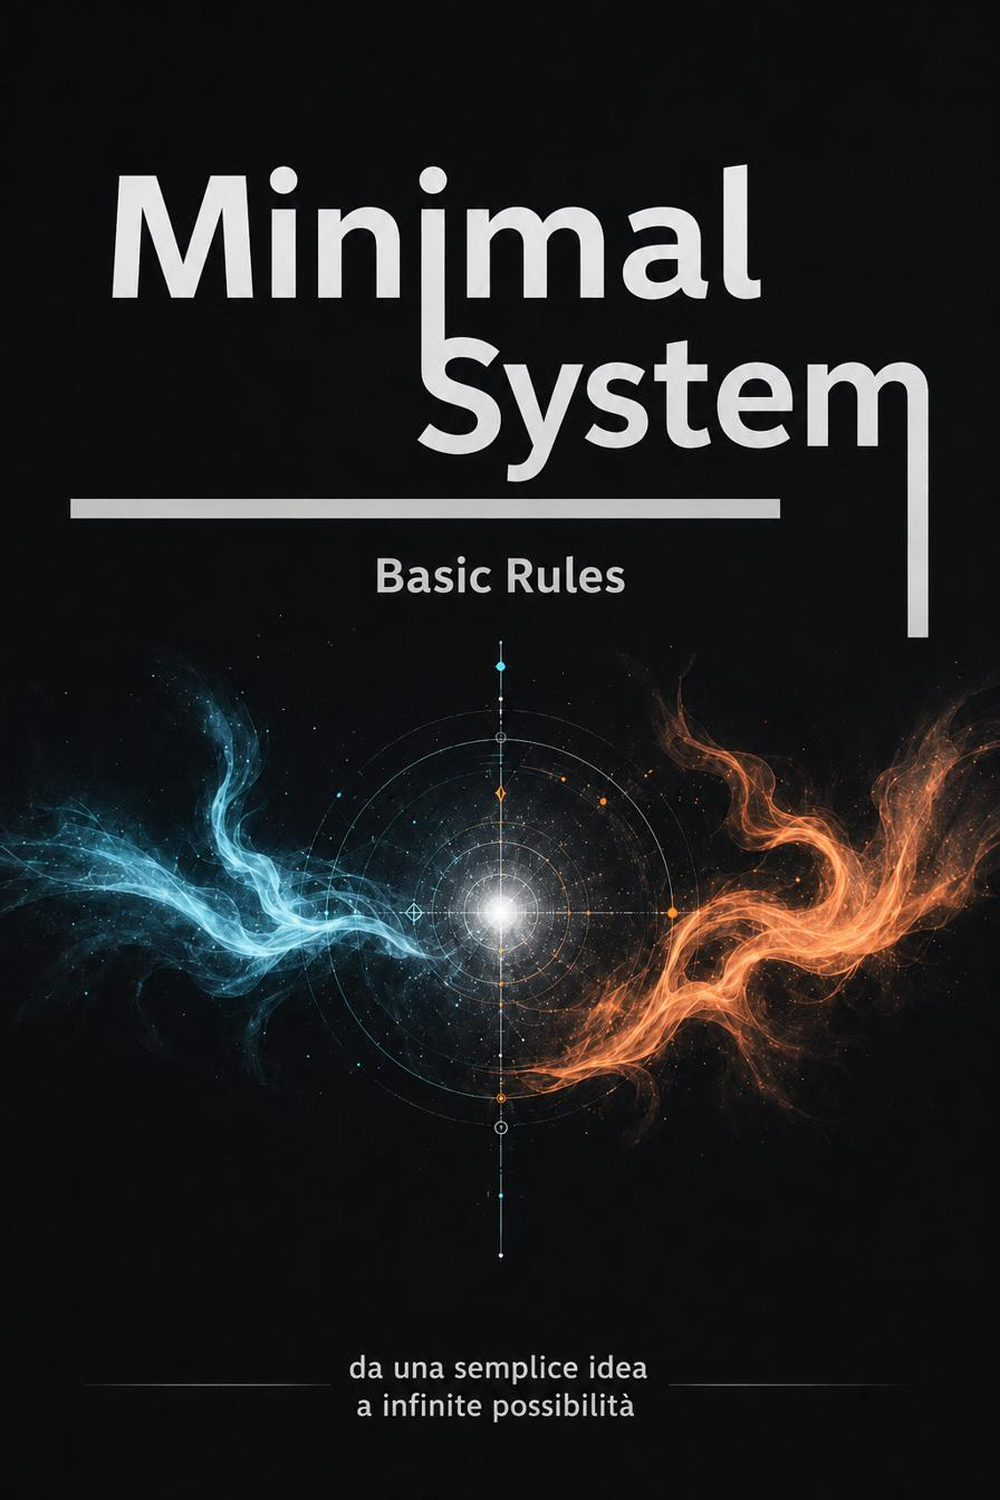
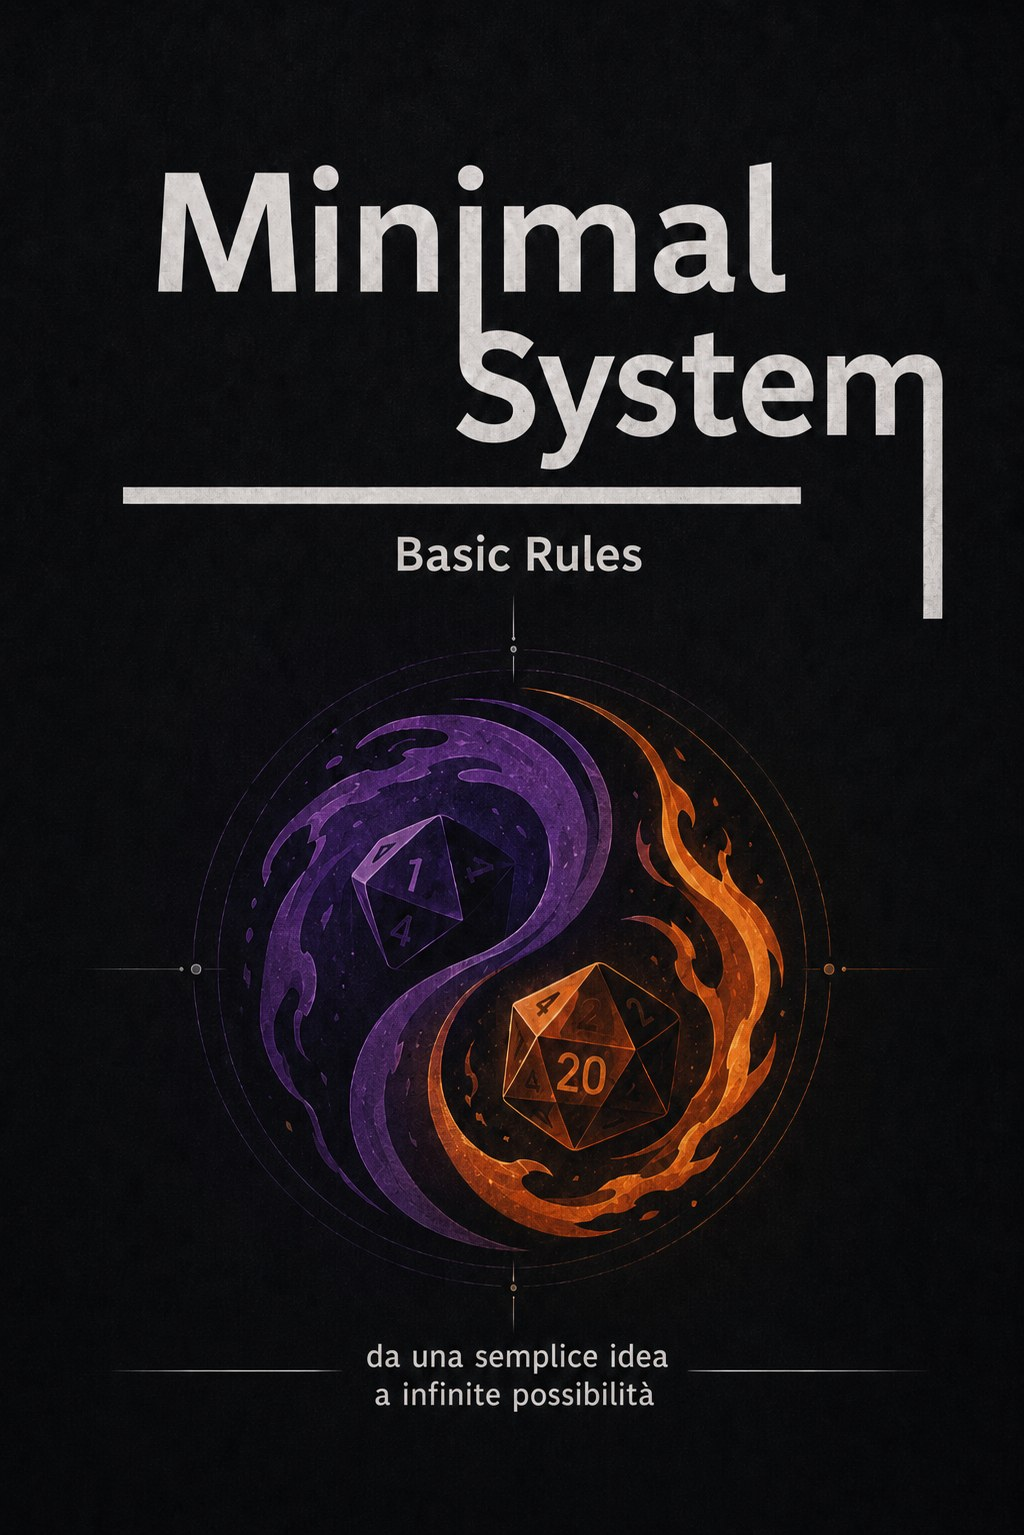
Sostituisce l'immagine di copertina
Nuova copertina con yin-yang di dadi (viola/arancio) al posto della
precedente. Cache SW a v4 per propagare l'aggiornamento.

Claude-Session: https://claude.ai/code/session_01RqaxRj1wk9Sw8WaZdSYQ8k

Changed region(s): [[0.0, 0.4293, 1.0, 0.828], [0.062, 0.092, 0.93, 0.4293], [0.341, 0.8587, 0.651, 0.9507]]

diff --git a/service-worker.js b/service-worker.js
@@ -1,4 +1,4 @@
-const CACHE_NAME = 'minimal-system-v3';
+const CACHE_NAME = 'minimal-system-v4';
 const APP_SHELL = [
   './',
   './index.html',